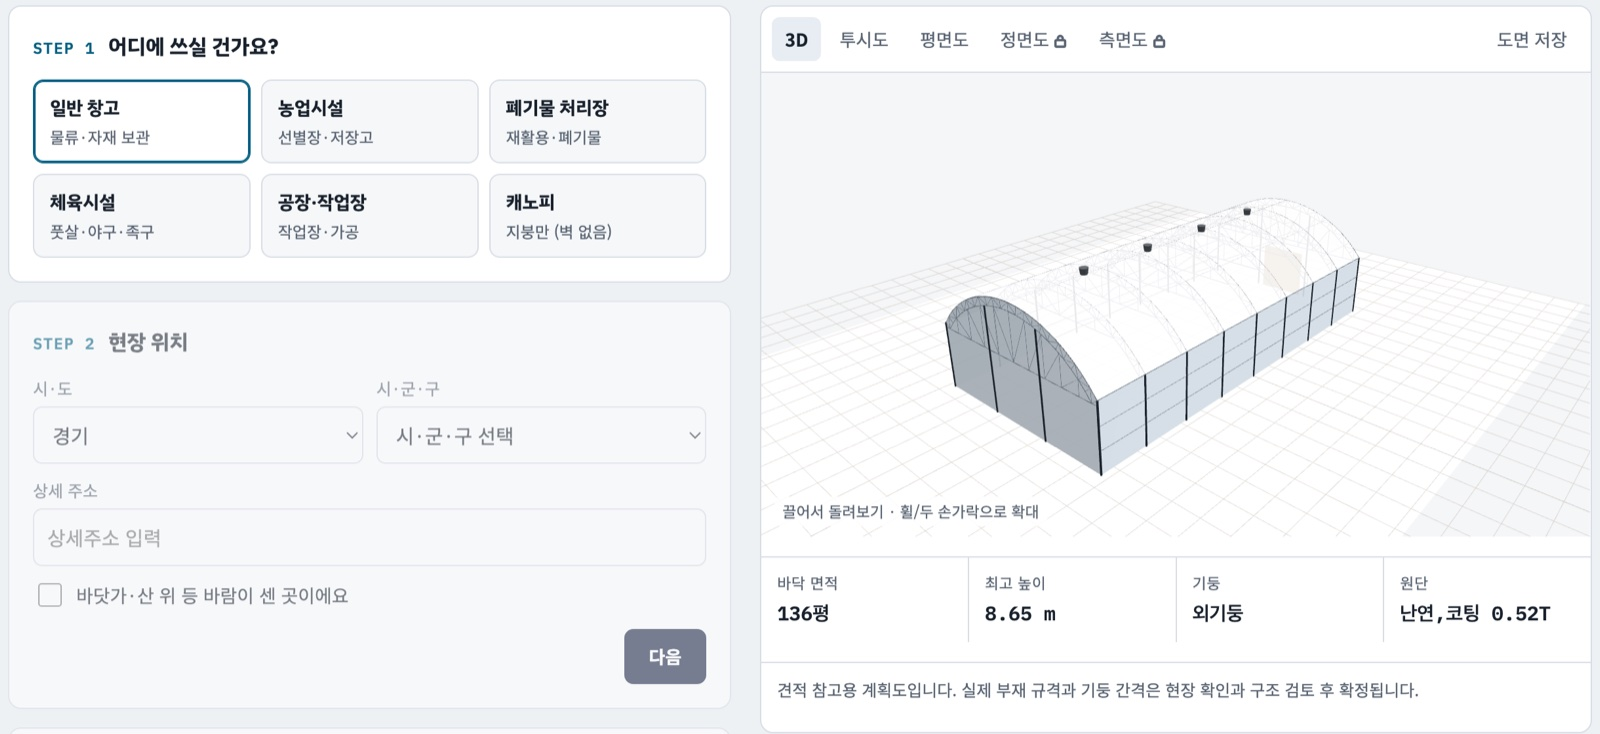
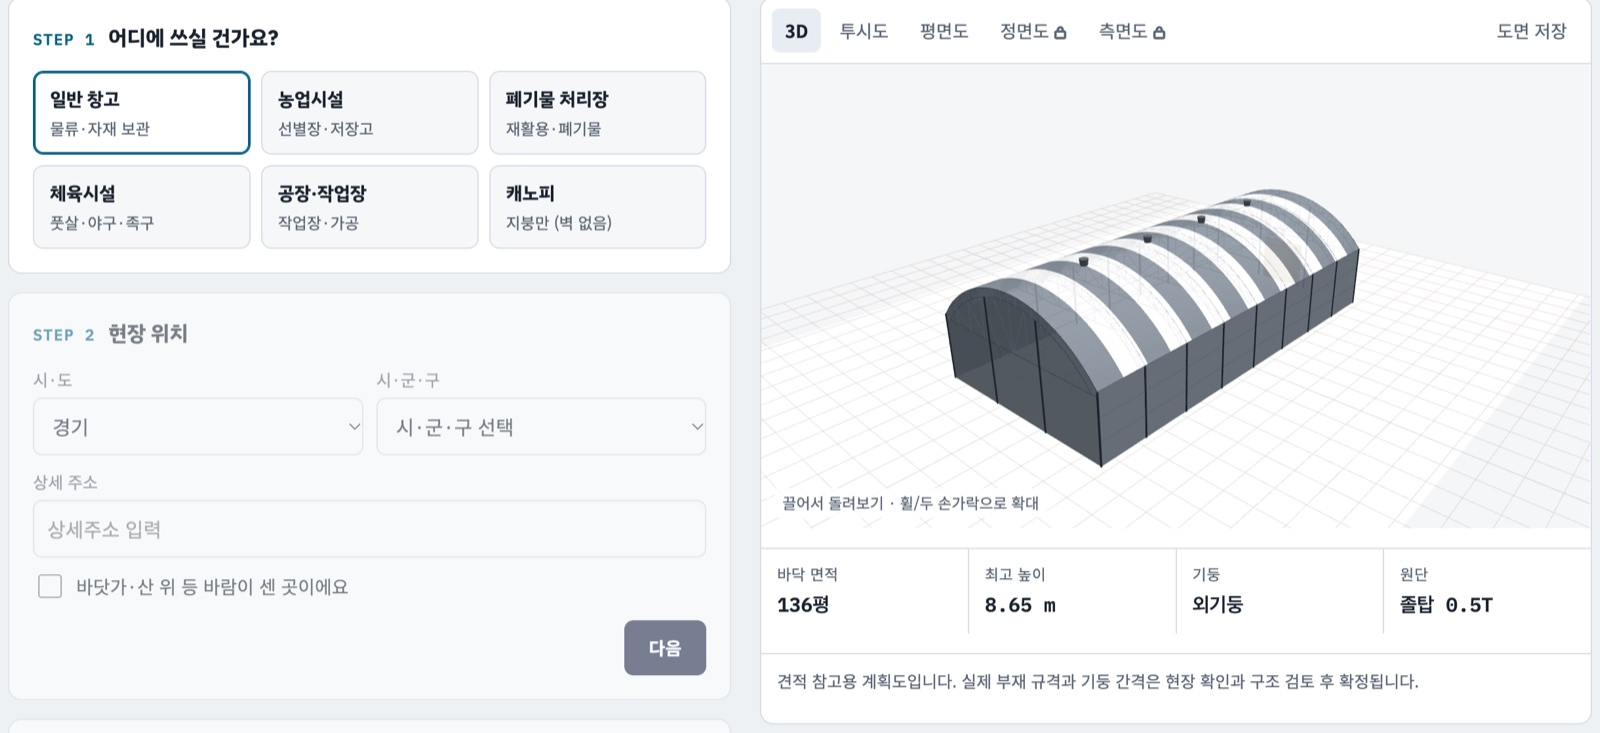
Add files via upload

diff --git a/index.html b/index.html
@@ -342,7 +342,7 @@ var DEFAULT_PRICES = {
   'rail': 0, 'vent': 0, 'fan': 0, 'window': 0,
   'gutter': 0, 'gutterLabor': 0,
   'weld': 0, 'disc': 0, 'paint': 0, 'misc': 0, 'angle': 0,
-  'band05': 0, 'band06': 0, 'rope': 0,   // 띠장(M): 원단 0.5T급 / 0.6T급 'insul': 0,
+  'band05': 0, 'band06': 0, 'rope': 0, 'insul': 0,   // 띠장(M): 원단 0.5T급 / 0.6T급
   'footing': 0,  // 독립기초 신설(개소) - 가정값, 확인 필요
   // 토목 (2025~2026 하이텐트 토목 견적: 이천 79평·케이알 97평·남원 136평·덕평 줄기초·하남 305평)
   'civ_conc': 0,   // 레미콘 25-240-15 (m³)
@@ -743,13 +743,13 @@ function buildingsOf(inp) {
 }
 
 // 토목 물량: A = 바닥면적(㎡), P = 외곽 둘레(m), nc = 기둥 개소
-var CIVIL = {none: '없음', pad: '독립기초', strip: '줄기초', slab: '바닥 콘크리트 타설 150T', tbd: '현장 확인 후 결정'};
+var CIVIL = {none: '없음', pad: '독립기초', strip: '줄기초', slab: '바닥 콘크리트 타설 250T', tbd: '현장 확인 후 결정'};
 function civilList(kind, A, P, nc) {
 var L = [], r = Math.round, mx = Math.max, c = Math.ceil;
 if (kind === 'slab') {
-  var m3 = c(A * 0.15 * 1.03);
+  var m3 = c(A * 0.25 * 1.03);   // 바닥 슬래브 두께 250T (2026-10-12, 이전 150T)
   L.push(['와이어메쉬', '6번', c(A / 1.7), 'ea', 'mat', 'civ_mesh'],
-    ['기초콘크리트타설', '25-240-15 (150T)', m3, 'm³', 'mat', 'civ_conc'],
+    ['기초콘크리트타설', '25-240-15 (250T)', m3, 'm³', 'mat', 'civ_conc'],
     ['상승각외 기타자재', '', 1, '식', 'mat', 'civ_misc'],
     ['유로폼(거푸집)', '', 1, '식', 'mat', 'civ_form'],
     ['컷팅', '줄눈', 1, '식', 'lab', 'civ_cut'],
@@ -1128,6 +1128,25 @@ function windowSpots(E, side) {
   return out.filter(function (x, k) { return out.indexOf(x) === k; });
 }
 
+// 벽면 환풍기 490×490: 좌측 벽에 절반(올림), 우측에 나머지. 장변 벽 위쪽(처마 아래 약 1.35m)에,
+// 출입문 칸은 피하고 가능하면 창문 없는 칸에 고르게 → 중심 x(mm) 배열. 높이는 fanY(g)
+function fanY(g) { return Math.max(900, g.H * 1000 - 1350); }
+function fanSpots(E, side) {
+  var g = E.g, n = +E.inp.fan || 0, cnt = side === 'left' ? Math.ceil(n / 2) : Math.floor(n / 2);
+  if (!cnt || !E.t.walls[side]) return [];
+  var doors = placedDoors(E, side), wins = windowSpots(E, side), all = [], free = [], i;
+  for (i = 0; i < g.nBay; i++) {
+    var c = (i + 0.5) * g.bay * 1000;
+    if (doors.some(function (p) { return c + 400 > p.s && c - 400 < p.s + p.dw; })) continue;
+    all.push(c); if (!wins.some(function (s) { return c + 400 > s && c - 400 < s + 1500; })) free.push(c);
+  }
+  var bays = free.length >= cnt ? free : all;
+  if (!bays.length) return [];
+  var out = [], step = bays.length / cnt;
+  for (i = 0; i < cnt; i++) out.push(bays[Math.min(bays.length - 1, Math.floor(step * (i + 0.5)))]);
+  return out.filter(function (x, k) { return out.indexOf(x) === k; });
+}
+
 // ── ① 평면 · 기둥 배치도 ──
 function sheetPlan(E, info) {
   var g = E.g, t = E.t, pen = new Pen(), L = g.L * 1000, W = g.W * 1000;
@@ -1342,6 +1361,9 @@ function sheetSide(E, info) {
   // 창문 / 도어 (좌측 벽 기준, 우측 벽 문은 점선)
   var winL = windowSpots(E, 'left');
   if (H > 2800) winL.forEach(function (s) { v.rect(s, 1650, 1500, 1000, {w: 0.35, c: 'accent', fill: 'bg'}); v.line(s + 750, 1650, s + 750, 2650, {w: 0.2, c: 'accent'}); });
+  var fy = fanY(g), fanL = fanSpots(E, 'left');
+  fanL.forEach(function (c) { v.rect(c - 245, fy - 245, 490, 490, {w: 0.35, c: 'accent', fill: 'bg'}); v.line(c - 245, fy - 245, c + 245, fy + 245, {w: 0.15, c: 'accent'}); v.line(c - 245, fy + 245, c + 245, fy - 245, {w: 0.15, c: 'accent'}); });
+  fanSpots(E, 'right').forEach(function (c) { v.rect(c - 245, fy - 245, 490, 490, {w: 0.25, c: 'accent', dash: '1.5 1'}); });
   placedDoors(E, 'left').forEach(function (p) { var dh = Math.min(p.dh, H - 200); v.rect(p.s, 0, p.dw, dh, {w: 0.4, c: 'accent', fill: 'bg'}); v.text(p.s + p.dw / 2, dh / 2, (p.d.w || 4) + 'M×' + (p.d.h || 4) + 'M', {size: 2.1, anchor: 'middle', c: 'accent'}); });
   placedDoors(E, 'right').forEach(function (p) { var dh = Math.min(p.dh, H - 200); v.rect(p.s, 0, p.dw, dh, {w: 0.3, c: 'accent', dash: '2 1'}); v.text(p.s + p.dw / 2, dh / 2, '(우측벽) ' + (p.d.w || 4) + 'M×' + (p.d.h || 4) + 'M', {size: 2.1, anchor: 'middle', c: 'accent'}); });
   if (+E.inp.vent) spread(Math.min(+E.inp.vent, 12), L, 700).forEach(function (s) { v.rect(s, top, 700, 420, {w: 0.3, fill: 'bg'}); });
@@ -1350,6 +1372,7 @@ function sheetSide(E, info) {
   v.leader(xs[1] || 0, H * 0.3, -14, 16, 'Ø' + g.colDia + ' 기둥 @' + fmt(g.bay * 1000));
   v.leader(L * 0.55, H - vtH / 2, 12, -16, 'VT 트러스 Ø48.6 / Ø34');
   }
+  if (fanL.length && !pv) v.leader(fanL[0], fy + 245, 10, -10, '벽면환풍기 490×490' + (fanSpots(E, 'right').length ? ' (좌 ' + fanL.length + ' / 우 ' + fanSpots(E, 'right').length + ')' : ''));
   if (winL.length && H > 2800) v.leader(winL[0] + 750, 2650, -10, -12, '창문 1500×1000' + (windowSpots(E, 'right').length ? ' (좌 ' + winL.length + ' / 우 ' + windowSpots(E, 'right').length + ')' : ''));
   if (!pv) for (i = 0; i < xs.length - 1; i++) v.dimH(xs[i], xs[i + 1], 0, 8, fmt(g.bay * 1000));
   v.dimH(0, L, 0, 15, fmt(L));
@@ -1428,6 +1451,7 @@ function isoOne(pen, E, Q, n, fz) {
       pen.poly([Q(s, 1650, 0), Q(s, 2650, 0), Q(s + 1500, 2650, 0), Q(s + 1500, 1650, 0), Q(s, 1650, 0)], {w: 0.3, fill: 'glass', c: 'accent'});
       var m1 = Q(s + 750, 1650, 0), m2 = Q(s + 750, 2650, 0); pen.line(m1[0], m1[1], m2[0], m2[1], {w: 0.2, c: 'accent'});
     });
+    var fy0 = fanY(g); fanSpots(E, 'left').forEach(function (c) { pen.poly([Q(c - 245, fy0 - 245, 0), Q(c - 245, fy0 + 245, 0), Q(c + 245, fy0 + 245, 0), Q(c + 245, fy0 - 245, 0), Q(c - 245, fy0 - 245, 0)], {w: 0.3, fill: 'ink', c: 'ink'}); });
   }
   if (E.inp.extendAt !== 'front') pen.poly(prof.map(function (q) { return Q(0, q[1], q[0]); }), {w: 0.5});
   var e1 = Q(0, hAt(zN), zN), e2 = Q(L, hAt(zN), zN); pen.line(e1[0], e1[1], e2[0], e2[1], {w: 0.45});
@@ -1737,7 +1761,7 @@ function toDXF(pen) {
   return L.join('\r\n');
 }
 
-var API = {SHEETS: SHEETS, sheetsFor: sheetsFor, render: render, bldList: bldList, toPlan: toPlan, toSVG: toSVG, toDXF: toDXF, SHEET: SHEET, roofPts: roofPts, placedDoors: placedDoors, windowSpots: windowSpots, yAt: yAt};
+var API = {SHEETS: SHEETS, sheetsFor: sheetsFor, render: render, bldList: bldList, toPlan: toPlan, toSVG: toSVG, toDXF: toDXF, SHEET: SHEET, roofPts: roofPts, placedDoors: placedDoors, windowSpots: windowSpots, fanSpots: fanSpots, fanY: fanY, yAt: yAt};
 if (typeof module !== 'undefined' && module.exports) module.exports = API; else root.TentDraw = API;
 })(this);
 
@@ -1960,6 +1984,14 @@ Tent3D.prototype.buildOne = function (E, Dr, grp) {
   if (H > 2.8) ['left', 'right'].forEach(function (sd) {
     var zz = sd === 'left' ? -e : W + e;
     Dr.windowSpots(E, sd).forEach(function (s0) { var s = s0 / 1000; quad([s, 1.65, zz], [s + 1.5, 1.65, zz], [s + 1.5, 2.65, zz], [s, 2.65, zz], matWin); });
+  });
+  // 벽면 환풍기 490×490 (어두운 사각 + 안쪽 원형 날개 자리)
+  var matFan = new T.MeshStandardMaterial({color: 0x3a434d, metalness: 0.4, roughness: 0.5, side: T.DoubleSide}), matFanIn = new T.MeshStandardMaterial({color: 0x8a96a3, metalness: 0.5, roughness: 0.4, side: T.DoubleSide});
+  var fy = Dr.fanY(g) / 1000;
+  ['left', 'right'].forEach(function (sd) {
+    var zz = sd === 'left' ? -e * 1.5 : W + e * 1.5, zi = sd === 'left' ? -e * 2 : W + e * 2;
+    Dr.fanSpots(E, sd).forEach(function (c0) { var c = c0 / 1000; quad([c - 0.245, fy - 0.245, zz], [c + 0.245, fy - 0.245, zz], [c + 0.245, fy + 0.245, zz], [c - 0.245, fy + 0.245, zz], matFan);
+      var disc = new T.Mesh(new T.CircleGeometry(0.19, 20), matFanIn); disc.position.set(c, fy, zi); grp.add(disc); });
   });
   var nv = +E.inp.vent || 0;
   if (nv) {
